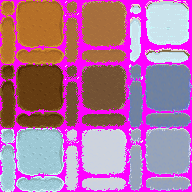
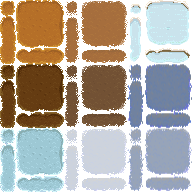
Fixed transparent tiles not being so

diff --git a/game.py b/game.py
@@ -72,7 +72,7 @@ class InputStack:
 
         return 1 if val1 > val2 else -1
 
-    def highest(self, keys: list[int], consume: bool=False, consumeAll: bool=False):
+    def highest(self, keys: list[int], consume: bool = False, consumeAll: bool = False):
         sorted = keys.copy()
 
         anyPressed = False
@@ -99,11 +99,15 @@ class InputStack:
 
         return highest
 
+
 class ItemManager(ItemLoader):
     def __init__(self) -> None:
         super().__init__()
 
-        self.toolsTileSet = pygame.image.load("./assets/tools.png").convert()
+        self.toolsTileSet = pygame.image.load(
+            "./assets/items/tools.png").convert()
+        self.cropsTileSet = pygame.image.load(
+            "./assets/items/crops.png").convert()
 
     def getImage(self, item: Item):
         image = pygame.Surface((CELL_SIZE, CELL_SIZE))
@@ -111,9 +115,11 @@ class ItemManager(ItemLoader):
 
         if item.type == ItemType.TOOL:
             renderPos = int(item.renderPos)
-            image.blit(self.toolsTileSet, (0, 0), Rect(5 * CELL_SIZE, (2 + (renderPos * 2)) * CELL_SIZE , CELL_SIZE, CELL_SIZE))
+            image.blit(self.toolsTileSet, (0, 0), Rect(
+                5 * CELL_SIZE, (2 + (renderPos * 2)) * CELL_SIZE, CELL_SIZE, CELL_SIZE))
 
         return image
+
 
 class DrawableCharacter(Character):
     def __init__(self, identifier: str, tileSet: str, world: World) -> None:
@@ -157,18 +163,12 @@ class DrawableWorld(World):
                         self.image.blit(image, (x * CELL_SIZE, y * CELL_SIZE))
 
         self.dirtTileSet = pygame.image.load(
-            "./assets/hoed.png", "hoed dirt").convert()
+            "./assets/hoed.png", "hoed dirt")
         self.cropsTileSet = pygame.image.load(
-            "./assets/crops.png", "crops").convert()
+            "./assets/crops.png", "crops")
 
-        self.overlayImages = list[Surface]()
-        for _ in range(3):
-            image = pygame.Surface(
-                (WORLD_WIDTH, WORLD_HEIGHT), pygame.SRCALPHA, 32)
-            image.fill(color.MAGENTA)
-            image.set_colorkey(color.MAGENTA)
-
-            self.overlayImages.append(image)
+        self.overlayImage = pygame.Surface(
+            (WORLD_WIDTH, WORLD_HEIGHT), pygame.SRCALPHA, 32)
 
     def setTile(self, pos: Coord, tile: Tile):
         super().setTile(pos, tile)
@@ -177,16 +177,15 @@ class DrawableWorld(World):
 
         if updatedTile != None:
             if updatedTile.type == TileType.TILLED_DIRT:
-                self.overlayImages[0].blit(self.dirtTileSet, (pos.x * CELL_SIZE,
-                                                              pos.y * CELL_SIZE), Rect(0, 0, CELL_SIZE, CELL_SIZE))
+                self.overlayImage.blit(self.dirtTileSet, (pos.x * CELL_SIZE,
+                                                          pos.y * CELL_SIZE), Rect(0, 0, CELL_SIZE, CELL_SIZE))
             elif updatedTile.type == TileType.CROP:
-                self.overlayImages[1].blit(self.cropsTileSet, (pos.x * CELL_SIZE,
-                                                               (pos.y) * CELL_SIZE), Rect(0, CELL_SIZE, CELL_SIZE, CELL_SIZE))
+                self.overlayImage.blit(self.cropsTileSet, (pos.x * CELL_SIZE,
+                                                           (pos.y) * CELL_SIZE), Rect(0, CELL_SIZE, CELL_SIZE, CELL_SIZE))
 
     def removeTile(self, pos: Coord):
-        for image in self.overlayImages:
-            image.fill(color.MAGENTA, Rect(pos.x * CELL_SIZE,
-                                           pos.y * CELL_SIZE, CELL_SIZE, CELL_SIZE))
+        self.overlayImage.fill((0, 0, 0, 0), Rect(pos.x * CELL_SIZE,
+                                                  pos.y * CELL_SIZE, CELL_SIZE, CELL_SIZE))
 
         return super().removeTile(pos)
 
@@ -244,7 +243,8 @@ class Game:
         if not (x == y == 0):
             actions.append(MoveCharacterAction(x, y))
 
-        inventorySelection = self.inputs.highest(INVENTORY_KEYS, consumeAll=True)
+        inventorySelection = self.inputs.highest(
+            INVENTORY_KEYS, consumeAll=True)
 
         self.inventoryChanged = False
         if inventorySelection != -1:
@@ -294,9 +294,8 @@ class Game:
         # World Elements
         self.image.blit(self.world.image, (0, 0),
                         Rect(playerPos.x - spriteX, playerPos.y - spriteY, DISPLAY_WIDTH, DISPLAY_HEIGHT))
-        for image in self.world.overlayImages:
-            self.image.blit(image, (0, 0),
-                            Rect(playerPos.x - spriteX, playerPos.y - spriteY, DISPLAY_WIDTH, DISPLAY_HEIGHT))
+        self.image.blit(self.world.overlayImage, (0, 0),
+                        Rect(playerPos.x - spriteX, playerPos.y - spriteY, DISPLAY_WIDTH, DISPLAY_HEIGHT))
 
         # Character
         self.image.blit(self.player.image(), (spriteX, spriteY))
@@ -320,7 +319,7 @@ class Game:
 
         # Inventory Selection
         self.world.items[0] = self.itemManager.items[0]
-        
+
         for i, item in enumerate(self.world.items):
             inventorySlotPos = Vector2(
                 72 + (i * 20), DISPLAY_HEIGHT - 25)
@@ -330,10 +329,12 @@ class Game:
                     self.endInventoryChangeFlash = time.time_ns() + 3e8
 
                 if time.time_ns() < self.endInventoryChangeFlash:
-                    l = -44 * (((self.endInventoryChangeFlash - time.time_ns() - 15e7) / 1e9) ** 2) + 1
+                    l = -44 * (((self.endInventoryChangeFlash -
+                               time.time_ns() - 15e7) / 1e9) ** 2) + 1
                     print(l)
 
-                    self.image.fill((int(255 * l), int(255 * l), int(255 * l)), Rect(inventorySlotPos.x, inventorySlotPos.y, 20, 20))
+                    self.image.fill((int(255 * l), int(255 * l), int(255 * l)),
+                                    Rect(inventorySlotPos.x, inventorySlotPos.y, 20, 20))
 
                     continue
 
@@ -347,11 +348,12 @@ class Game:
                                         (20 - inventorySlotText.get_height()) / 2,
                                         ))
             else:
-                self.image.blit(self.itemManager.getImage(item), inventorySlotPos)
+                self.image.blit(self.itemManager.getImage(
+                    item), inventorySlotPos)
         outlinePos = Vector2(
-                71 + (self.world.inventorySelection * 20), DISPLAY_HEIGHT - 26)
-        pygame.draw.rect(self.image, color.YELLOW2, Rect(outlinePos.x, outlinePos.y, 22, 22), 1)
-
+            71 + (self.world.inventorySelection * 20), DISPLAY_HEIGHT - 26)
+        pygame.draw.rect(self.image, color.YELLOW2, Rect(
+            outlinePos.x, outlinePos.y, 22, 22), 1)
 
         pygame.transform.scale(
             self.image, self.display.get_size(), self.display)

diff --git a/controller.py b/controller.py
@@ -30,9 +30,12 @@ class Coord:
     def __repr__(self) -> str:
         return self.__str__()
 
+
 class ItemType(enum.Enum):
     TOOL = "TOOL"
     WEAPON = "WEAPON"
+    SEED = "SEED"
+
 
 class Item:
     def __init__(self, type: ItemType, id: int, name: str, renderPos: str) -> None:
@@ -40,6 +43,7 @@ class Item:
         self.id = id
         self.name = name
         self.renderPos = renderPos
+
 
 class ItemLoader:
     def __init__(self) -> None:
@@ -59,6 +63,7 @@ class ItemLoader:
 class TileType(enum.Enum):
     TILLED_DIRT = 0
     CROP = 1
+
 
 class Tile:
     def __init__(self, type: TileType) -> None:
@@ -88,11 +93,13 @@ class MoveCharacterAction(Action):
         self.x = x
         self.y = y
 
+
 class HoeGroundAction(Action):
     def __init__(self, pos: Coord) -> None:
         super().__init__()
 
         self.pos = pos
+
 
 class PlantCropAction(Action):
     def __init__(self, pos: Coord) -> None:
@@ -113,7 +120,8 @@ class ChangeInventorySelectionAction(Action):
 
 class World:
     def __init__(self) -> None:
-        self.__tiles: list[list[Tile | None]] = [[None] * int(WORLD_HEIGHT / CELL_SIZE) for _ in range(int(WORLD_WIDTH / CELL_SIZE))]
+        self.__tiles: list[list[Tile | None]] = [
+            [None] * int(WORLD_HEIGHT / CELL_SIZE) for _ in range(int(WORLD_WIDTH / CELL_SIZE))]
 
         self.mapData = load_pygame("./assets/tiled/minimap.tmx")
 
@@ -168,7 +176,7 @@ class World:
     def handleHoeGroundAction(self, action: HoeGroundAction):
         existing = self.tileAt(action.pos)
 
-        if existing != None and existing.type == TileType.CROP: # if harvesting
+        if existing != None and existing.type == TileType.CROP:  # if harvesting
             self.removeTile(action.pos)
             self.coins += 5
         else:
@@ -191,7 +199,7 @@ class CharacterState(enum.Enum):
     SITTING = 2
 
 
-CHARACTER_SPEED = 150
+CHARACTER_SPEED = 100
 ANIMATION_SPEED = 2
 
 
